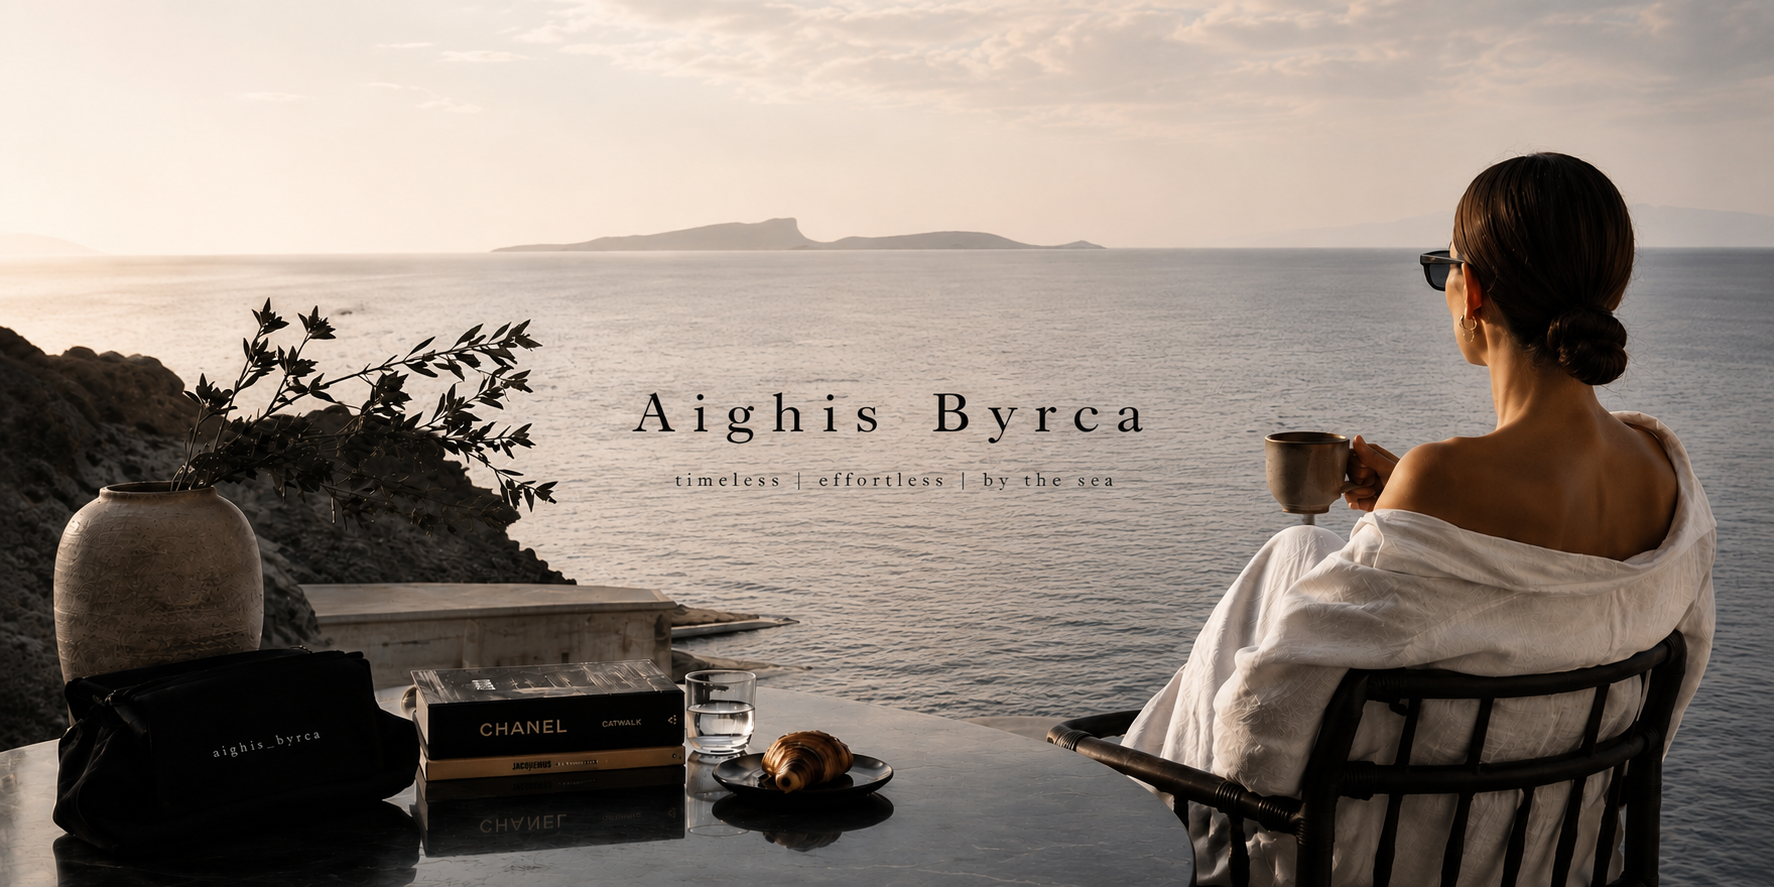
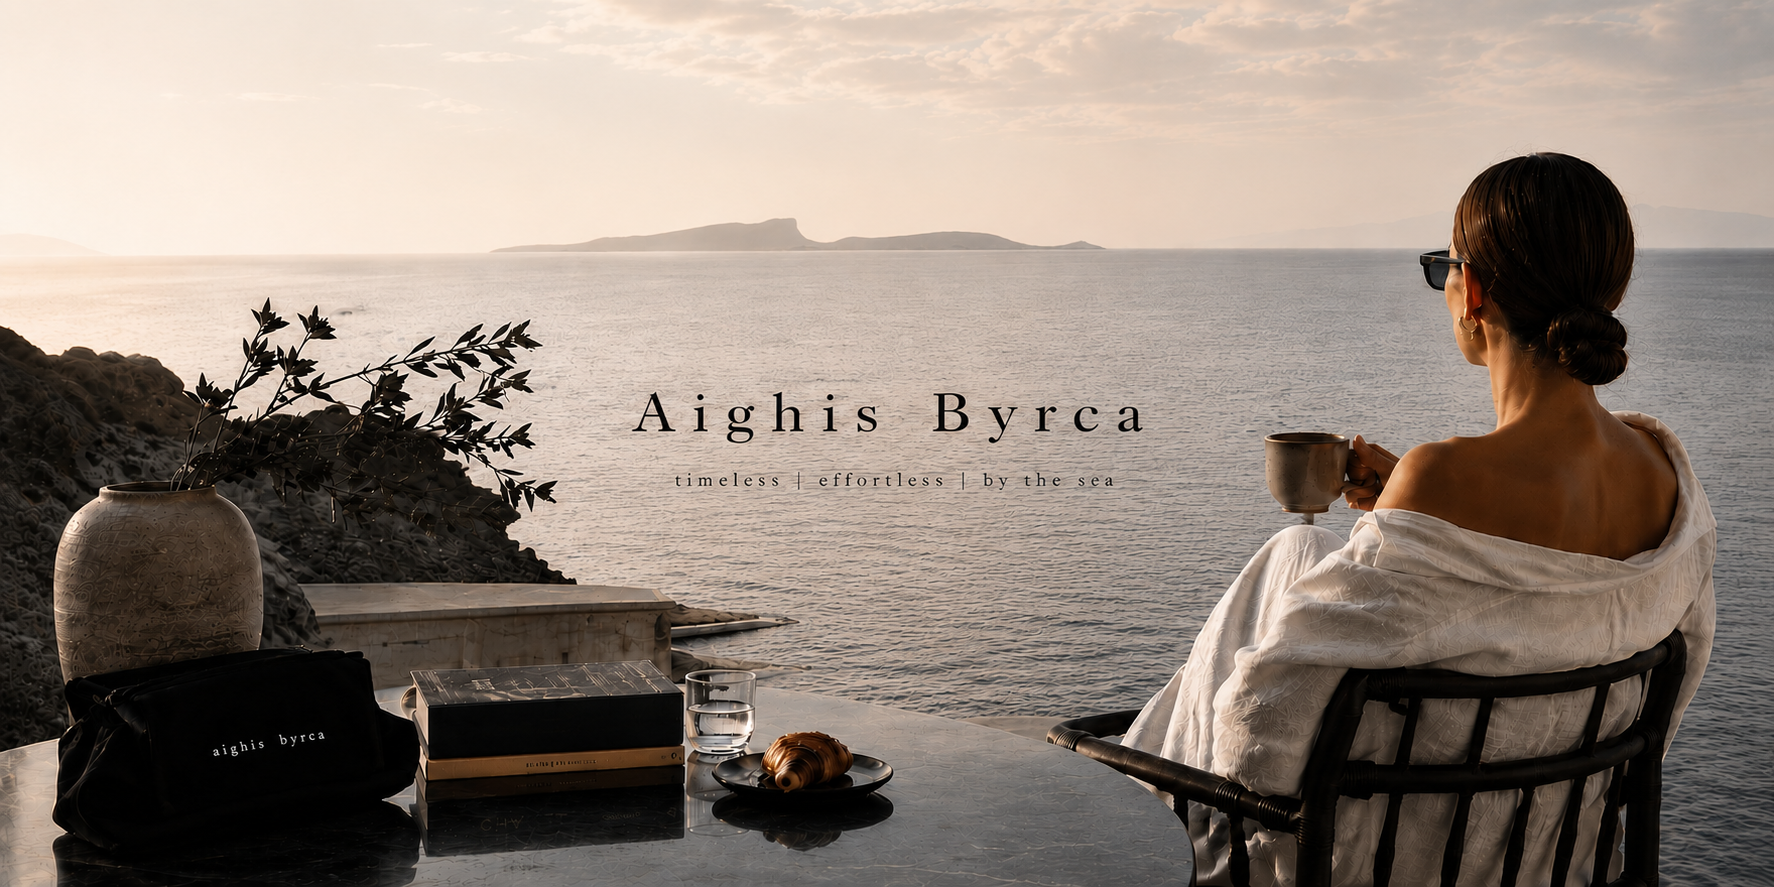
fix responsive

diff --git a/app/components/Navbar/Navbar.tsx b/app/components/Navbar/Navbar.tsx
@@ -21,6 +21,7 @@ export default function Navbar({ compact = false }: Props) {
   const { totalItems: cartItems } = useCart();
   const { t } = useLocale();
   const [searchOpen, setSearchOpen] = useState(false);
+  const [menuOpen, setMenuOpen] = useState(false);
   const [query, setQuery] = useState("");
   const inputRef = useRef<HTMLInputElement>(null);
 
@@ -48,10 +49,11 @@ export default function Navbar({ compact = false }: Props) {
   useEffect(() => {
     const handleKey = (e: KeyboardEvent) => {
       if (e.key === "Escape" && searchOpen) setSearchOpen(false);
+      if (e.key === "Escape" && menuOpen) setMenuOpen(false);
     };
     window.addEventListener("keydown", handleKey);
     return () => window.removeEventListener("keydown", handleKey);
-  }, [searchOpen]);
+  }, [searchOpen, menuOpen]);
 
   return (
     <header
@@ -125,6 +127,47 @@ export default function Navbar({ compact = false }: Props) {
         )}
       </div>
 
+      {/* MOBILE MENU OVERLAY */}
+      {menuOpen && <div className={styles.menuOverlay} onClick={() => setMenuOpen(false)} />}
+
+      {/* MOBILE MENU PANEL */}
+      <div className={`${styles.menuPanel} ${menuOpen ? styles.menuPanelOpen : ""}`}>
+        <div className={styles.menuPanelHeader}>
+          <span className={styles.menuPanelTitle}>{BRAND_NAME}</span>
+          <button className={styles.menuClose} onClick={() => setMenuOpen(false)}>
+            <X size={20} strokeWidth={1.5} />
+          </button>
+        </div>
+        <nav className={styles.menuPanelNav}>
+          <Link href="/" className={styles.menuPanelLink} onClick={() => setMenuOpen(false)}>
+            {t.nav.home}
+          </Link>
+          {t.nav.top.map((item) => (
+            <Link
+              key={item}
+              href={`/category/${getSlugFromLabel(item)}`}
+              className={styles.menuPanelLink}
+              onClick={() => setMenuOpen(false)}
+            >
+              {item}
+            </Link>
+          ))}
+          {t.nav.center.map((item) => (
+            <Link
+              key={item}
+              href={`/category/${getSlugFromLabel(item)}`}
+              className={styles.menuPanelLink}
+              onClick={() => setMenuOpen(false)}
+            >
+              {item}
+            </Link>
+          ))}
+          <Link href="/wishlist" className={styles.menuPanelLink} onClick={() => setMenuOpen(false)}>
+            {t.nav.wishlist}
+          </Link>
+        </nav>
+      </div>
+
       {/* TOP BAR */}
 
       <div className={styles.topBar}>
@@ -149,7 +192,7 @@ export default function Navbar({ compact = false }: Props) {
             <span>{t.nav.search}</span>
           </button>
 
-          <Link href="/order-tracking" className={styles.textLink}>
+          <Link href="#" className={styles.textLink}>
             {t.footer.orderTracking}
           </Link>
   <Link href="/wishlist" className={styles.wishlistLink}>
@@ -161,7 +204,7 @@ export default function Navbar({ compact = false }: Props) {
               <span className={styles.wishlistCount}>{wishlistItems.length}</span>
             )}
           </Link>
-          <Link href="/cart" className={styles.bag}>
+          <Link href="#" className={styles.bag}>
             <ShoppingBag size={20} strokeWidth={1.6} />
 
             {cartItems > 0 && (
@@ -169,7 +212,7 @@ export default function Navbar({ compact = false }: Props) {
             )}
           </Link>
 
-          <button className={styles.mobile}>
+          <button className={styles.mobile} onClick={() => setMenuOpen(true)}>
             <Menu size={24} />
           </button>
         </div>

diff --git a/app/components/Navbar/Navbar.module.css b/app/components/Navbar/Navbar.module.css
@@ -634,3 +634,82 @@ padding:18px 20px;
 }
 
 }
+
+/* ================= MOBILE MENU ================= */
+
+.menuOverlay{
+position:fixed;
+inset:0;
+background:rgba(0,0,0,.45);
+z-index:200;
+}
+
+.menuPanel{
+position:fixed;
+top:0;
+left:0;
+width:100%;
+max-width:320px;
+height:100vh;
+background:white;
+z-index:300;
+transform:translateX(-100%);
+transition:transform .4s cubic-bezier(.22,.61,.36,1);
+display:flex;
+flex-direction:column;
+overflow-y:auto;
+}
+
+.menuPanelOpen{
+transform:translateX(0);
+}
+
+.menuPanelHeader{
+display:flex;
+align-items:center;
+justify-content:space-between;
+border-bottom:1px solid #eee;
+padding:20px 24px;
+}
+
+.menuPanelTitle{
+font-family:var(--font-logo);
+font-size:1.6rem;
+font-weight:500;
+letter-spacing:-1px;
+color:#111;
+}
+
+.menuClose{
+background:none;
+border:none;
+cursor:pointer;
+color:#555;
+padding:4px;
+transition:.3s;
+}
+
+.menuClose:hover{
+color:#111;
+}
+
+.menuPanelNav{
+display:flex;
+flex-direction:column;
+padding:16px 0;
+}
+
+.menuPanelLink{
+display:block;
+padding:14px 24px;
+font-size:15px;
+font-weight:300;
+letter-spacing:.04em;
+color:#111;
+text-decoration:none;
+transition:background .25s;
+}
+
+.menuPanelLink:hover{
+background:#f5f5f5;
+}

diff --git a/app/components/Footer/Footer.tsx b/app/components/Footer/Footer.tsx
@@ -75,22 +75,22 @@ export default function Footer() {
             <span>+</span>
           </Link>
 
-          <Link href="/order-tracking" className={styles.footerLink}>
+          <Link href="#" className={styles.footerLink}>
             {t.footer.orderTracking}
           </Link>
 
-          <Link href="/returns" className={styles.footerLink}>
+          <Link href="#" className={styles.footerLink}>
             {t.footer.returns}
           </Link>
 
           
 
-          <Link href="/legal" className={styles.footerLink}>
+          <Link href="#" className={styles.footerLink}>
             {t.footer.legalArea}
             <span>+</span>
           </Link>
 
-          <Link href="/contact" className={styles.footerLink}>
+          <Link href="#" className={styles.footerLink}>
             {t.footer.contact}
             <span>+</span>
           </Link>

diff --git a/app/components/NewArrivals/products.ts b/app/components/NewArrivals/products.ts
@@ -80,7 +80,7 @@ export const womenProducts: Product[] = [
     name: "Carretto Blouse",
     price: "60 Tnd",
     category: "NEW COLLECTION",
-    image: "/assets/products/product1.png",
+    image: "/assets/products/product7.png",
     gender: "women",
     isOnSale: true,
     originalPrice: "95 Tnd",
@@ -162,7 +162,7 @@ export const extraProducts: Product[] = [
     name: "Cashmere Turtleneck",
     price: "290 Tnd",
     category: "NEW COLLECTION",
-    image: "/assets/products/product1.png",
+    image: "/assets/products/product7.png",
     gender: "women",
     tags: ["women", "collection", "new-in", "fashion", "casa"],
     sizes: ["XS", "S", "M", "L"],

diff --git a/app/components/OutfitBuilder/OutfitBuilder.tsx b/app/components/OutfitBuilder/OutfitBuilder.tsx
@@ -18,7 +18,7 @@ export default function OutfitBuilder() {
             Tell us your mood, your event, your favorite colors and let us
             craft a complete look that speaks to who you are.
           </p>
-          <Link href="/outfit-builder" className={styles.ctaButton}>
+          <Link href="#" className={styles.ctaButton}>
             <Sparkles size={16} strokeWidth={1.5} />
             Prepare My Outfit
             <ArrowRight size={16} strokeWidth={1.5} />

diff --git a/app/cart/page.tsx b/app/cart/page.tsx
@@ -134,7 +134,7 @@ export default function CartPage() {
                 <span>{totalPrice} {t.cart.currency}</span>
               </div>
 
-              <Link href="/checkout" className={styles.checkoutBtn}>{t.cart.checkout}</Link>
+              <Link href="#" className={styles.checkoutBtn}>{t.cart.checkout}</Link>
 
               <Link href="/products" className={styles.continueShopping}>
                 <ArrowLeft size={14} strokeWidth={1.5} />
